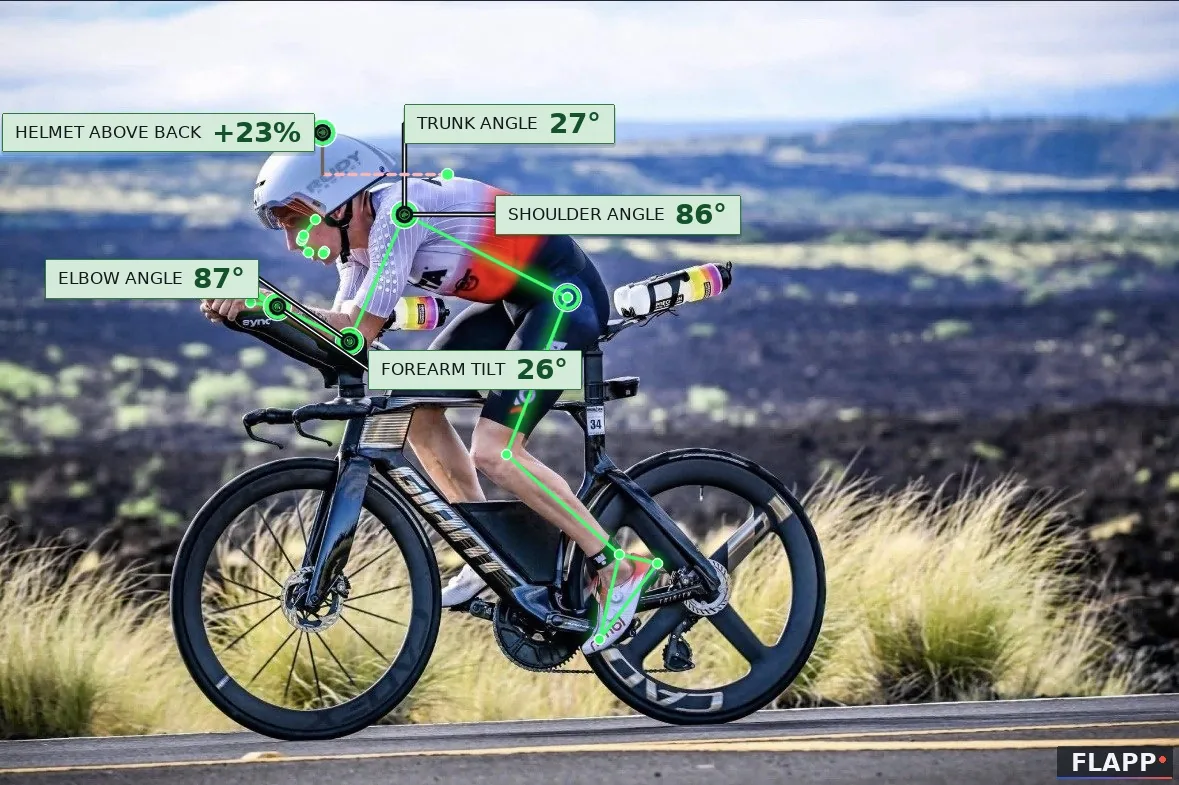
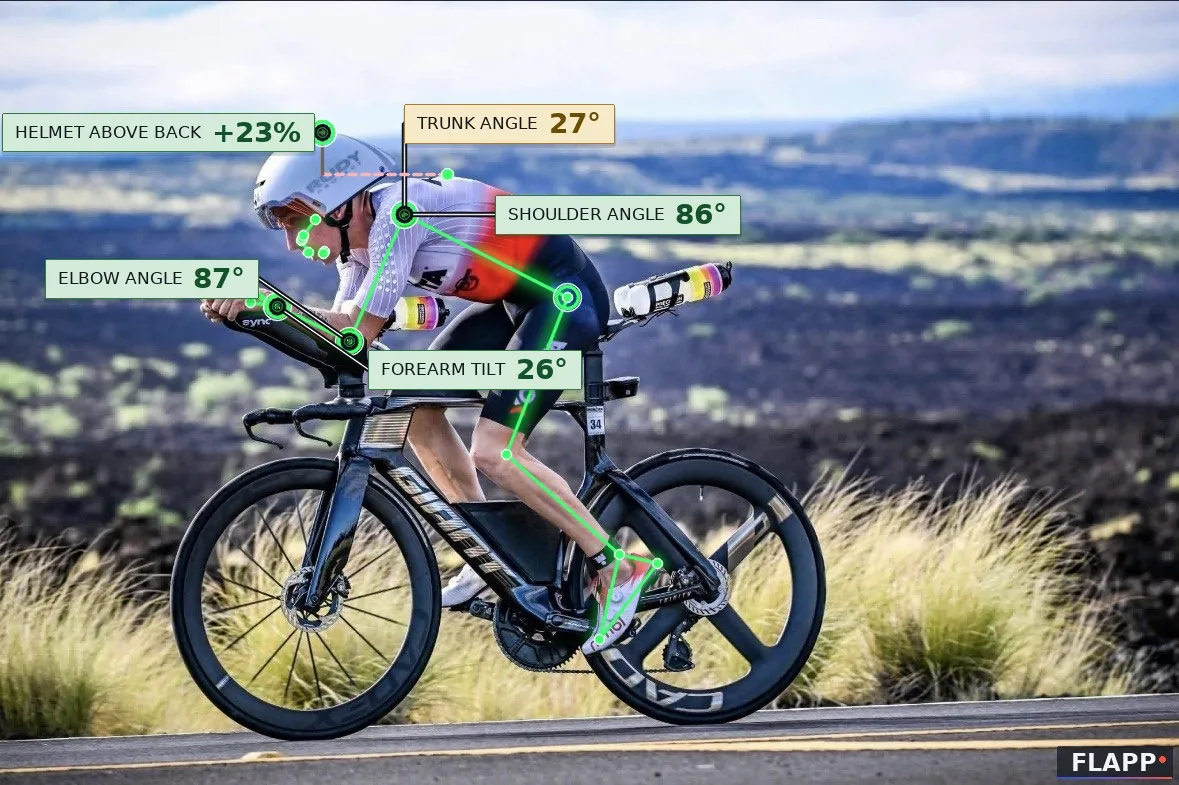
Aero torso band ends at 25, not 30: a tri bike ridden like a road bike is no longer an A
Artur's call (2026-10-13): a rider sitting up at 29 deg on a tri bike, above
every one of the 32 Kona pros (max 27), read "in range" and scored 98. The
triathlon band is 20-25 and the TT band 15-25 now (25 = the recommended upper
end; Kona median 20, middle half 18-22): 26-28 amber, above 28 costs points.
That clip would score 90; 31 deg 80, 34 deg 66. Table, tiles, chips and score
agree, because they read the one band. The Kona article, its chart and its
figures follow (four pros sat at 25.2-27.1: amber, at no cost).

Changed region(s): [[0.3359, 0.1223, 0.5496, 0.1834]]

diff --git a/backend/app/static/index.html b/backend/app/static/index.html
@@ -3287,8 +3287,8 @@ const RUN_ANGLE_OPT={ trunk:[2,10], elbow:[85,100] };
 const BIKE_POSITION_OPT={
   road_hoods:{trunk_angle:[40,55],elbow_angle:[145,165],shoulder_angle:[80,100],knee_at_bdc:[135,145],knee_at_tdc:[65,75],hip_at_tdc:[55,70],forearm_tilt:[5,20],pelvic_ratio:[1.5,3.5]},
   road_drops:{trunk_angle:[30,45],elbow_angle:[130,160],shoulder_angle:[75,95],knee_at_bdc:[135,145],knee_at_tdc:[65,75],hip_at_tdc:[52,68],forearm_tilt:[0,15],pelvic_ratio:[1.8,3.5]},
-  tt_aero:{trunk_angle:[15,30],elbow_angle:[75,110],shoulder_angle:[80,100],knee_at_bdc:[138,145],knee_at_tdc:[60,72],hip_at_tdc:[42,60],forearm_tilt:[5,30],pelvic_ratio:[2.0,4.0]},
-  triathlon:{trunk_angle:[20,30],elbow_angle:[75,110],shoulder_angle:[80,105],knee_at_bdc:[138,145],knee_at_tdc:[60,72],hip_at_tdc:[45,62],forearm_tilt:[5,30],pelvic_ratio:[2.0,4.0]},
+  tt_aero:{trunk_angle:[15,25],elbow_angle:[75,110],shoulder_angle:[80,100],knee_at_bdc:[138,145],knee_at_tdc:[60,72],hip_at_tdc:[42,60],forearm_tilt:[5,30],pelvic_ratio:[2.0,4.0]},
+  triathlon:{trunk_angle:[20,25],elbow_angle:[75,110],shoulder_angle:[80,105],knee_at_bdc:[138,145],knee_at_tdc:[60,72],hip_at_tdc:[45,62],forearm_tilt:[5,30],pelvic_ratio:[2.0,4.0]},
   casual:{trunk_angle:[45,60],elbow_angle:[130,165],shoulder_angle:[100,140],knee_at_bdc:[135,150],knee_at_tdc:[60,80],hip_at_tdc:[68,88],forearm_tilt:[-5,15],pelvic_ratio:[1.5,3.5]},
 };
 const BIKE_ANGLE_OPT_DEFAULT=BIKE_POSITION_OPT.road_hoods;

diff --git a/backend/scripts/field_study/field_chart.html b/backend/scripts/field_study/field_chart.html
@@ -43,7 +43,7 @@
 </div>
 <script>
 const DATA = {
-  trunk:        {band:[20,30],  lowOk:true, label:"Torso angle",  note:"from horizontal",
+  trunk:        {band:[20,25],  lowOk:true, label:"Torso angle",  note:"from horizontal",
                  v:[23.1,19.1,18.9,21.8,21.6,25.2,20.8,19.2,24.7,25.0,12.8,19.8,15.4,14.8,18.8]},
   shoulder:     {band:[80,105], lowOk:true, label:"Shoulder",     note:"torso to upper arm",
                  v:[86.5,89.0,75.9,91.5,74.1,83.1,87.3,81.3,85.9,94.5,95.6,88.0,89.6,87.9,80.6]},

diff --git a/backend/app/services/video_analysis/biomechanics/cycling_positions.py b/backend/app/services/video_analysis/biomechanics/cycling_positions.py
@@ -111,7 +111,9 @@ CYCLING_POSITIONS: dict[str, dict[str, Any]] = {
     "tt_aero": {
         "label": "TT - Aero",
         "category": "tt",
-        "trunk_angle": (15, 30),        # Retul TT ~20 deg; track 4.5-8.6 deg
+        # Upper end 30 -> 25 (Artur, 2026-10-13): a rider sitting up at 29 deg
+        # on a TT bike read "in range" and scored 98. See META for why 25.
+        "trunk_angle": (15, 25),        # Retul TT ~20 deg; track 4.5-8.6 deg
         "elbow_angle": (75, 110),       # elbows bent on aero pads, NOT straight
         "knee_at_bdc": (138, 145),      # Retul TT/Tri: 37-42 deg extension
         "knee_at_tdc": (60, 72),        # more closed hip angle in aero
@@ -126,7 +128,7 @@ CYCLING_POSITIONS: dict[str, dict[str, Any]] = {
     "triathlon": {
         "label": "Triathlon - Aero",
         "category": "tt",
-        "trunk_angle": (20, 30),        # more conservative than pure TT (~25 vs ~20)
+        "trunk_angle": (20, 25),        # ~25 recommended as the upper end; Kona pros 18-22
         "elbow_angle": (75, 110),       # same pad setup as TT
         "knee_at_bdc": (138, 145),      # Retul TT/Tri fit window
         "knee_at_tdc": (60, 72),
@@ -241,7 +243,10 @@ CYCLING_POSITIONS_META: dict[str, dict[str, dict[str, Any]]] = {
     },
     "tt_aero": {
         "trunk_angle": {
-            "source": "Retul TT fit; surplus power peak 4.5-8.6 deg (track)",
+            "source": (
+                "Retul TT fit; surplus power peak 4.5-8.6 deg (track); upper end 25: "
+                "Kona 2026 pro field (n=32) median 20, middle half 18-22, max 27"
+            ),
             "warning_low": 10,
             "warning_high": 35,
         },
@@ -317,7 +322,15 @@ CYCLING_POSITIONS_META: dict[str, dict[str, dict[str, Any]]] = {
             "note": "Closed past the band: amber, a third of the penalty (SHOULDER_CLOSED_OK_POSITIONS).",
         },
         "trunk_angle": {
-            "source": "Triathlon position norms; ~25 deg recommended",
+            "source": (
+                "Triathlon position norms: ~25 deg recommended as the upper end; "
+                "Kona 2026 pro field (n=32): median 20, middle half 18-22, max 27"
+            ),
+            "note": (
+                "Upper end 30 -> 25 (Artur, 2026-10-13). At 30 a rider sitting up on "
+                "a tri bike like a road bike (29 deg, above every Kona pro) read "
+                "'in range' and scored 98. 26-28 is amber, above 28 costs points."
+            ),
             "warning_low": 15,
             "warning_high": 35,
         },

diff --git a/backend/tests/test_aero_bands_kona.py b/backend/tests/test_aero_bands_kona.py
@@ -194,3 +194,18 @@ class TestTheHeadLever:
         assert head["status"] == "unknown" and "race helmet" in head["cue"]
         assert AE.with_helmet_lever(base, 25.9, False, "road_hoods")["levers"] == [
             lv for lv in base["levers"] if lv["key"] != "head"]
+
+
+def test_a_tri_bike_ridden_like_a_road_bike_is_not_an_a():
+    """Artur, 2026-10-13: a rider sitting up at 29 deg on a tri bike (above
+    every Kona pro, max 27) read 'in range' and scored 98. The aero torso band
+    now ends at 25: 26-28 amber, above that it costs points."""
+    from app.services.video_analysis import overlay_style as OS
+    from app.services.video_analysis.biomechanics.cycling_positions import get_cycling_reference
+    for pos in ("triathlon", "tt_aero"):
+        lo, hi = get_cycling_reference(pos)["trunk_angle"]
+        assert hi == 25
+        assert OS.status_for(24.0, lo, hi, min_margin=3.0) == "good"
+        assert OS.status_for(27.0, lo, hi, min_margin=3.0) == "warn"
+        assert OS.status_for(29.0, lo, hi, min_margin=3.0) == "bad"
+    assert "triathlon:{trunk_angle:[20,25]," in HTML and "tt_aero:{trunk_angle:[15,25]," in HTML

diff --git a/backend/tests/test_academy_figures.py b/backend/tests/test_academy_figures.py
@@ -91,7 +91,7 @@ class TestTheKonaDraft:
 
     def test_the_numbers_in_the_text_match_the_table(self):
         text = DRAFT.read_text(encoding="utf-8")
-        for row in ("| Torso, from horizontal | 20° | 18–22° | 12–27° | 20–30° |",
+        for row in ("| Torso, from horizontal | 20° | 18–22° | 12–27° | 20–25° |",
                     "| Shoulder, torso to upper arm | 88° | 83–92° | 74–100° | 80–105° |",
                     "| Elbow | 84° | 76–88° | 66–102° | 75–110° |",
                     "| Forearm tilt, above horizontal | 26° | 23–28° | 19–32° | 5–30° |",

diff --git a/backend/content/academy/kona-2026-pro-bike-positions.md b/backend/content/academy/kona-2026-pro-bike-positions.md
@@ -50,7 +50,7 @@ After the Ironman World Championship we ran thirty-two professional bike positio
 
 | Angle | Median | Middle half | Full range | Flapp's triathlon range |
 |---|---|---|---|---|
-| Torso, from horizontal | 20° | 18–22° | 12–27° | 20–30° |
+| Torso, from horizontal | 20° | 18–22° | 12–27° | 20–25° |
 | Shoulder, torso to upper arm | 88° | 83–92° | 74–100° | 80–105° |
 | Elbow | 84° | 76–88° | 66–102° | 75–110° |
 | Forearm tilt, above horizontal | 26° | 23–28° | 19–32° | 5–30° |
@@ -190,6 +190,6 @@ When we first corrected the points, on the original fifteen photos, the medians 
 
 ## What we changed in Flapp
 
-Measuring this field showed that three of our own rules were behind it, and we changed each one only as far as a source supports. The forearm-tilt range now runs to 30°. That is the ceiling road time trials allow under UCI rules; triathlon sets none, and three Kona positions went past it, so read it as a reference, not a rule. A shoulder closed below the range on aero bars is amber and costs a third of the penalty, because no source calls it a fault. The aero estimate, which used to put every torso below 28° in one bucket, now separates three steps using Fintelman's measured frontal areas. And a torso flatter than the range costs no points, but comes with the concern you read above. For the head, the app measures the helmet above the back, lets you move both points it is measured between, and asks you to check the top-of-back point when the helmet's tail lies flat on it. A helmet up to 23% of a torso length above the back, where twenty-eight of the thirty-one Kona helmet readings sat, costs nothing; the three riders above it do not widen that for everyone. Above that it is amber with a small penalty, never red, because the one study we have compares two head positions and draws no line between them.
+Measuring this field showed that three of our own rules were behind it, and we changed each one only as far as a source supports. The forearm-tilt range now runs to 30°. That is the ceiling road time trials allow under UCI rules; triathlon sets none, and three Kona positions went past it, so read it as a reference, not a rule. A shoulder closed below the range on aero bars is amber and costs a third of the penalty, because no source calls it a fault. The aero estimate, which used to put every torso below 28° in one bucket, now separates three steps using Fintelman's measured frontal areas. And a torso flatter than the range costs no points, but comes with the concern you read above. At the other end we tightened it: the triathlon torso range used to run to 30°, and a rider sitting up at 29° on a tri bike, higher than every pro here, read as in range. It now runs to 25°, the upper end the fit guidance recommends; 26–28° is amber, and above that it costs points. Four of the thirty-two pros sat just above 25°, the highest at 27°: all four in the amber zone, at no cost. For the head, the app measures the helmet above the back, lets you move both points it is measured between, and asks you to check the top-of-back point when the helmet's tail lies flat on it. A helmet up to 23% of a torso length above the back, where twenty-eight of the thirty-one Kona helmet readings sat, costs nothing; the three riders above it do not widen that for everyone. Above that it is amber with a small penalty, never red, because the one study we have compares two head positions and draws no line between them.
 
 [Measure your own position](/app)
